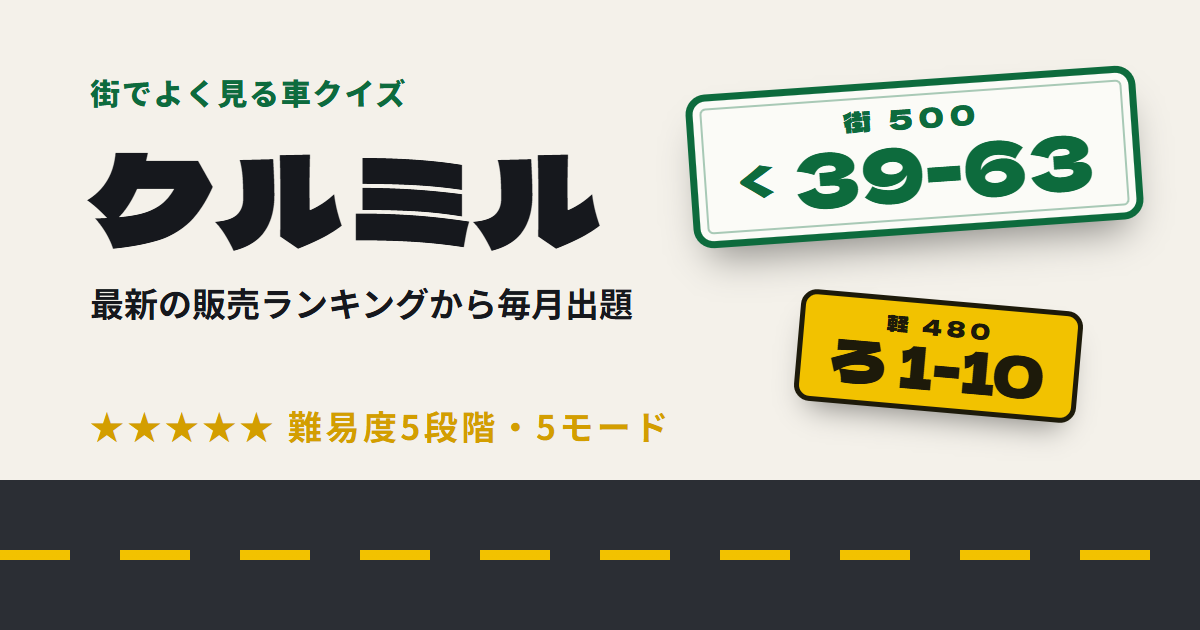
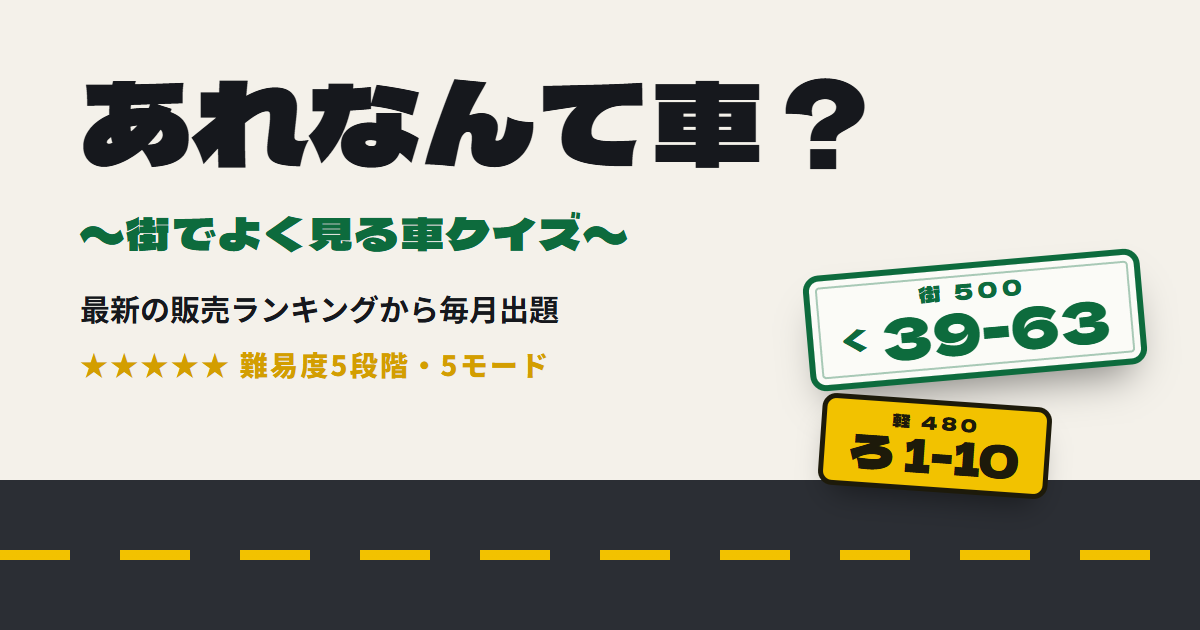
アプリ名を「あれなんて車？〜街でよく見る車クイズ〜」に変更、URLを /games/arenante/ に

diff --git a/public/index.html b/public/index.html
@@ -3,13 +3,13 @@
 <head>
   <meta charset="utf-8">
   <meta name="viewport" content="width=device-width, initial-scale=1, viewport-fit=cover">
-  <title>クルミル｜街でよく見る車クイズ</title>
+  <title>あれなんて車？〜街でよく見る車クイズ〜</title>
   <meta name="description" content="いま日本の道を走っている車を、最新の新車販売ランキングから出題。車名・後ろ姿・メーカー・エンブレム・新型旧型の5モードと図鑑で、街の車に詳しくなれるクイズです。">
   <meta name="theme-color" content="#f4f1ea" media="(prefers-color-scheme: light)">
   <meta name="theme-color" content="#14161a" media="(prefers-color-scheme: dark)">
   <!-- 車のデータ（毎月自動更新）の置き場所。annotations-lab.com などに置くときは GitHub Pages の URL を指す -->
-  <meta name="kurumiru:data" content="data/cars.json">
-  <meta property="og:title" content="クルミル｜街でよく見る車クイズ">
+  <meta name="arenante:data" content="data/cars.json">
+  <meta property="og:title" content="あれなんて車？〜街でよく見る車クイズ〜">
   <meta property="og:description" content="最新の販売ランキングから出題。街でよく見る車、いくつわかる？">
   <meta property="og:type" content="website">
   <link rel="manifest" href="manifest.webmanifest">
@@ -22,9 +22,9 @@
 </head>
 <body>
   <header class="topbar">
-    <button class="brand" data-go="home" aria-label="クルミル ホームへ">
+    <button class="brand" data-go="home" aria-label="あれなんて車？ ホームへ">
       <img src="icon.svg" alt="" width="30" height="30">
-      <span>クルミル</span>
+      <span>あれなんて車？</span>
     </button>
     <nav class="tabs" aria-label="メニュー">
       <button data-go="home" class="tab" aria-current="page">クイズ</button>

diff --git a/public/app.js b/public/app.js
@@ -25,7 +25,7 @@ const MODES = {
   newer: { title: '新型どっち？', desc: '同じ車の新型と旧型を見分ける', prompt: '' },
 };
 
-const DATA_URL = document.querySelector('meta[name="kurumiru:data"]')?.content || 'data/cars.json';
+const DATA_URL = document.querySelector('meta[name="arenante:data"]')?.content || 'data/cars.json';
 
 const $app = document.getElementById('app');
 const $detail = document.getElementById('detail');
@@ -36,10 +36,10 @@ let star = Number(load('star')) || 2;
 // ---------- utils ----------
 
 function load(key) {
-  try { return localStorage.getItem(`kurumiru:${key}`); } catch { return null; }
+  try { return localStorage.getItem(`arenante:${key}`); } catch { return null; }
 }
 function save(key, value) {
-  try { localStorage.setItem(`kurumiru:${key}`, value); } catch { /* 保存できない環境でも動かす */ }
+  try { localStorage.setItem(`arenante:${key}`, value); } catch { /* 保存できない環境でも動かす */ }
 }
 
 const esc = (s) => String(s ?? '').replace(/[&<>"']/g, (c) => ({ '&': '&amp;', '<': '&lt;', '>': '&gt;', '"': '&quot;', "'": '&#39;' })[c]);

diff --git a/public/style.css b/public/style.css
@@ -1,4 +1,4 @@
-/* クルミル — ナンバープレートの緑（登録車）と黄（軽自動車）を差し色に、アスファルトと白線のトーン */
+/* あれなんて車？ — ナンバープレートの緑（登録車）と黄（軽自動車）を差し色に、アスファルトと白線のトーン */
 :root {
   --bg: #f4f1ea;
   --surface: #ffffff;
@@ -512,4 +512,10 @@ h1, h2 { margin: 0; }
 @media (min-width: 640px) {
   .modes { grid-template-columns: 1fr 1fr; }
   .mode:last-child:nth-child(odd) { grid-column: 1 / -1; }
+}
+
+@media (max-width: 360px) {
+  .brand { font-size: 16px; gap: 6px; }
+  .brand img { width: 26px; height: 26px; }
+  .tab { padding: 6px 12px; }
 }

diff --git a/README.md b/README.md
@@ -41,13 +41,13 @@ npm start        # http://localhost:3000
 
 ## annotations-lab.com に載せる
 
-画面のファイルは annotation プロジェクトの `public/games/kurumiru/` に置いて公開する（URL: https://annotations-lab.com/games/kurumiru/ ）。
+画面のファイルは annotation プロジェクトの `public/games/arenante/` に置いて公開する（URL: https://annotations-lab.com/games/arenante/ ）。
 車のデータはそこに置かず、GitHub Pages（`https://itokabu.github.io/carApp/data/cars.json`、毎月自動更新）から読むので、**データ更新のたびにアップロードし直す必要はない**。
 
 画面を変えたときだけ:
 
 ```sh
-npm run export   # ../※＠/annotation/public/games/kurumiru/ にコピー（データURLも書き換える）
+npm run export   # ../※＠/annotation/public/games/arenante/ にコピー（データURLも書き換える）
 ```
 
 そのあと annotation で `npm run build` して、`dist/` をサーバーにアップロードする。
